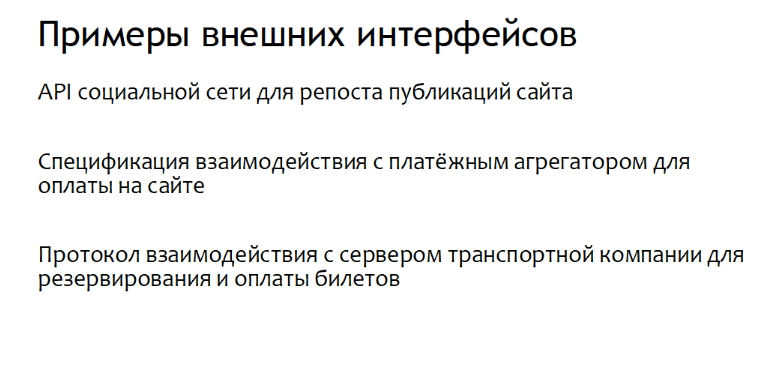
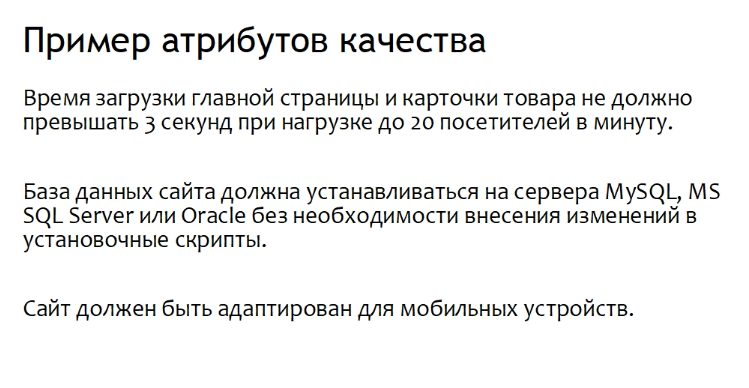
GITBOOK-9: change request with no subject merged in GitBook

Changed region(s): [[0.0307, 0.414, 0.9826, 0.828], [0.0307, 0.207, 0.9212, 0.3548], [0.0307, 0.0296, 0.7677, 0.1478]]

diff --git a/tz/zakazchik.md b/tz/zakazchik.md
@@ -1,0 +1,48 @@
+# Заказчик
+
+
+
+## Типы заказчиков
+
+На проектах я бываю по две стороны баррикад – и как исполнитель (разработчик), и как представитель заказчика. Поэтому заказчиков я для себя разделила на два типа.
+
+**Первый тип – это дотошный детальный заказчик**.
+
+\
+У нас в компании большинство заказчиков – первого типа. Например, у нас очень дотошные бухгалтера – в проекте со стороны заказчика задействовано около 35 человек, и каждый бухгалтер знает, чего он хочет. Требования обозначаются абсолютно четкие, но противоречащие друг другу.
+
+&#x20;
+
+* В общении с таким заказчиком есть плюсы – он досконально пропишет требования в ТЗ, расскажет вам, что ему конкретно нужно, все нарисует, объяснит, вам останется только это реализовать.
+* Но в общении с таким заказчиком есть и минусы: он убежден, что его желание должно быть реализовано именно так, как он себе представляет. Если для его задачи есть типовое решение, или вы знаете более оптимальный выход, его тяжело переубедить – он будет стоять на своем до конца. Проблему всегда нужно рассматривать с разных сторон, и для объективной оценки у такого заказчика не всегда может быть достаточно знаний – не может один специалист разбираться во всем и говорить, как вам поступать.
+
+**Второй тип заказчика – заказчик, который погружаться в детали не хочет.**
+
+\
+Такие заказчики мне чаще всего встречались со стороны малого и среднего бизнеса – это собственники, которые хотят видеть результат работы программы в определенном виде. В моей практике была заказчица, которая хотела видеть финансовые отчеты по своей компании, но для их настройки программу 1С даже не собиралась открывать. С такими заказчиками сложно работать, потому что они не хотят вникать в детали, хотят, чтобы им дали готовое решение.
+
+Но если нащупать лазейку, понять, как человек мыслит, как он общается с коллегами, какой он в неформальном общении, какие он отчеты использует, что ему удобнее смотреть – таблицу или диаграмму – реализовать цель будет легко.\
+&#x20;
+
+* С одной стороны, сдать такому заказчику результат проще – если он увидит готовое решение в том виде, которое его устраивает, он уже не будет проверять содержимое.
+* Но, с другой стороны, понять, что ему нужно – сложнее, потому что детали из такого заказчика вытащить невозможно.
+
+Источник: [https://infostart.ru/pm/1674776/](https://infostart.ru/pm/1674776/)
+
+
+
+
+
+## Взаимодействие с заказчиком
+
+* **Психологический момент – нужно выслушать заказчика.** По сути, вы как «жилетка» или личный психолог, должны выслушать все, что скажет заказчик, – все его проблемы, боли, все, что его беспокоит. Активно слушайте, поддерживайте, сопереживайте, дайте ему выговориться полностью. После того как весь поток речей закончится, можно приступать к конструктивной работе.
+* **Из этих речей нужно вычленить проблемы, которые нужно решить**. Чаще всего заказчик описывает ситуацию своими словами, из которых непонятен корень проблемы. Однажды мне звонила разгневанный кладовщик, долго кричала и жаловалась в трубку: «У меня не работает 1С, сделайте что-нибудь». Когда я попыталась выяснить, что именно нужно починить, женщина отвечала, что не знает, в чем проблема, но теперь она не может выдать документы водителю, а он из-за этого не может сходить в туалет. Пять минут я выслушивала не проблему, а то, что водитель не может сходить в туалет. Но это нужно было выслушать, чтобы потом остановиться и выяснить, какую проблему мы решаем: проблему водителя или проблему 1С?
+* **Важно докопаться до истины и выявить проблему, а не слушать решение заказчика.** Очень много среди заказчиков тех, кто знаком с программированием, знает 1С – они начинают раздавать свои советы и решения. Но нужно вычленить проблему. Если, как в анекдоте, клиент пришел к вам и просит отрубить ему голову, вы хотя бы на автомате поинтересуйтесь: какую задачу мы решаем, почему заказчик принял такое решение? Какие решения он еще рассматривал? Конечно, можно действовать исключительно по ТЗ и отрубить заказчику голову, но это будет некорректно, хотя финансово выгодно. Поэтому лучше докопаться до истины.
+* **Чтобы дойти до истины, самое главное – перейти на язык заказчика**. Это сложный момент, потому что мы все преподносим себя как высококлассные дорогие специалисты, используем терминологию, в том числе для того, чтобы продемонстрировать свой профессионализм заказчику. Но чаще всего заказчик не понимает этого языка, поэтому старайтесь перейти на язык заказчика. Вы перейдете на его уровень, начнете понимать его логику и увидите в решении какие-то нюансы, которые могут вызывать проблему. Например, если заказчик привык заполнять документ, перемещаясь по полям слева направо, а вы ему сделаете заполнение полей сверху вниз, приемка вашего ТЗ может провалиться из-за мелочи. Поэтому обращайте внимание на детали и делайте так, чтобы заказчику было удобно.
+* **Следующий момент – посмотреть, как работает то, что есть сейчас.** Встаньте на место заказчика: потрогайте, проверьте работу на тестовых базах, сходите на производство, потыкайте в программе, поработайте с решением. Если вы полностью поймете процесс, это облегчит вам задачу.
+* **Соберите всю доступную документацию и изучите ее** – это самое главное. В нашей компании много специфики – куча разных положений по видам учета, учетная политика, различные инструкции, анкетирование, опросы. Мы нашим подрядчикам предоставили подробную информацию о том, как работает наша бухгалтерия, заполнили кучу опросных листов, анкет, предоставили детальную документацию. Но, открыв ТЗ, мы обнаружили, что исполнители со стороны подрядчика наши документы даже не прочитали, потому что в ТЗ перечислялись типовые возможности, которые не покрывают наши потребности. Нашим бухгалтерам это было очень обидно, они были недовольны и злы на подрядчика: на сбор информации потрачено много времени, но ее никто не изучил.
+* **Важно исследовать предметную область**, потому что у каждой организации есть своя специфика, свои нюансы в работе. Где-то есть специфика с точки зрения закона, где-то работа исторически сложилась некорректно, но эти правила не будут менять, потому что это тяжело и бессмысленно, поэтому нужно изучить все эти нюансы и постараться их полностью использовать. Даже если мы работаем с хорошим подрядчиком, он все равно предлагает типовые решения, основанные на его опыте, и не хочет разбираться, как у нас идет работа. А очень хочется, чтобы человек это понимал. Невнимание к деталям со стороны исполнителя мешает наладить хорошие отношения с заказчиком.
+
+Источник: [https://infostart.ru/pm/1674776/](https://infostart.ru/pm/1674776/)
+
+* Границы ТЗ (scope)

diff --git a/SUMMARY.md b/SUMMARY.md
@@ -1,25 +1,27 @@
 # Table of contents
 
 * [Введение](README.md)
-* [Сбор требований](sbor-trebovanii/README.md)
-  * [Функциональные требования](sbor-trebovanii/funkcionalnye-trebovaniya/README.md)
-    * [Бизнес требования](sbor-trebovanii/funkcionalnye-trebovaniya/biznes-trebovaniya.md)
-    * [Пользовательские требования](sbor-trebovanii/funkcionalnye-trebovaniya/polzovatelskie-trebovaniya/README.md)
-      * [Use case](sbor-trebovanii/funkcionalnye-trebovaniya/polzovatelskie-trebovaniya/use-case.md)
-    * [Системные требования](sbor-trebovanii/funkcionalnye-trebovaniya/sistemnye-trebovaniya.md)
-  * [Нефункциональные требования](sbor-trebovanii/nefunkcionalnye-trebovaniya/README.md)
-    * [Бизнес-правила](sbor-trebovanii/nefunkcionalnye-trebovaniya/biznes-pravila.md)
-    * [Атрибуты качества](sbor-trebovanii/nefunkcionalnye-trebovaniya/atributy-kachestva.md)
-    * [Ограничения](sbor-trebovanii/nefunkcionalnye-trebovaniya/ogranicheniya.md)
-    * [Внешний интерфейс](sbor-trebovanii/nefunkcionalnye-trebovaniya/vneshnii-interfeis.md)
-    * [📎 FURPS](sbor-trebovanii/nefunkcionalnye-trebovaniya/furps.md)
-  * [User story](sbor-trebovanii/user-story.md)
-  * [📍 Качества требований](sbor-trebovanii/kachestva-trebovanii.md)
-* [ТЗ](tz.md)
+* [ТЗ](tz/README.md)
+  * [Заказчик](tz/zakazchik.md)
+* [Требования](trebovaniya/README.md)
+  * [Функциональные требования](trebovaniya/funkcionalnye-trebovaniya/README.md)
+    * [Бизнес требования](trebovaniya/funkcionalnye-trebovaniya/biznes-trebovaniya.md)
+    * [Пользовательские требования](trebovaniya/funkcionalnye-trebovaniya/polzovatelskie-trebovaniya/README.md)
+      * [Use case](trebovaniya/funkcionalnye-trebovaniya/polzovatelskie-trebovaniya/use-case.md)
+    * [Системные требования](trebovaniya/funkcionalnye-trebovaniya/sistemnye-trebovaniya.md)
+  * [Нефункциональные требования](trebovaniya/nefunkcionalnye-trebovaniya/README.md)
+    * [Бизнес-правила](trebovaniya/nefunkcionalnye-trebovaniya/biznes-pravila.md)
+    * [Атрибуты качества](trebovaniya/nefunkcionalnye-trebovaniya/atributy-kachestva.md)
+    * [Ограничения](trebovaniya/nefunkcionalnye-trebovaniya/ogranicheniya.md)
+    * [Внешний интерфейс](trebovaniya/nefunkcionalnye-trebovaniya/vneshnii-interfeis.md)
+    * [📎 FURPS](trebovaniya/nefunkcionalnye-trebovaniya/furps.md)
+  * [User story](trebovaniya/user-story.md)
+  * [📍 Качества требований](trebovaniya/kachestva-trebovanii.md)
 * [Интеграции](integracii/README.md)
   * [Синхронное взаимодействие](integracii/sinkhronnoe-vzaimodeistvie.md)
   * [Асинхронное взаимодействие](integracii/asinkhronnoe-vzaimodeistvie.md)
-  * [HTTP](integracii/http.md)
+  * [HTTP](integracii/http/README.md)
+    * [CRUD](integracii/http/crud.md)
 * [Базы данных](bazy-dannykh/README.md)
   * [Реляционные](bazy-dannykh/relyacionnye.md)
   * [Нереляционные](bazy-dannykh/nerelyacionnye.md)
@@ -27,31 +29,29 @@
 * [Диаграммы](diagrammy/README.md)
   * [BPMN](diagrammy/bpmn.md)
   * [UML](diagrammy/uml.md)
-* [Основы сетей](osnovy-setei/README.md)
-  * [OSI (old)](osnovy-setei/osi-old.md)
-  * [OSI](osnovy-setei/osi.md)
-  * [💡 HTTP](osnovy-setei/http.md)
-  * [TLS](osnovy-setei/tls.md)
-  * [DNS](osnovy-setei/dns.md)
 * [DevOps](devops/README.md)
+  * [Основы сетей](devops/osnovy-setei/README.md)
+    * [OSI](devops/osnovy-setei/osi.md)
+    * [TCP/IP](devops/osnovy-setei/tcp-ip.md)
+    * [📍 HTTP](devops/osnovy-setei/http.md)
+    * [DNS](devops/osnovy-setei/dns.md)
   * [Kubernetes](devops/kubernetes.md)
   * [Openshift](devops/openshift.md)
-* [Мониторинг (логи и др)](monitoring-logi-i-dr/README.md)
-  * [Kibana](monitoring-logi-i-dr/kibana.md)
-  * [Grafana](monitoring-logi-i-dr/grafana.md)
+  * [📎 cmd](devops/cmd.md)
+  * [Git](devops/git.md)
+* [Мониторинг](monitoring/README.md)
+  * [Grafana](monitoring/grafana.md)
+  * [Kibana](monitoring/kibana.md)
 * [Тестирование](testirovanie/README.md)
-  * [Приемочное](testirovanie/priemochnoe.md)
   * [Нагрузочное](testirovanie/nagruzochnoe.md)
   * [ИФТ](testirovanie/ift.md)
+  * [📍 Приемочное](testirovanie/priemochnoe.md)
 * [Методологии разработки](metodologii-razrabotki/README.md)
-  * [Kanban](metodologii-razrabotki/kanban.md)
-  * [Scram](metodologii-razrabotki/scram.md)
   * [Waterfall](metodologii-razrabotki/waterfall.md)
+  * [Scram](metodologii-razrabotki/scram.md)
+  * [Kanban](metodologii-razrabotki/kanban.md)
 * [Макеты](makety/README.md)
   * [Figma](makety/figma.md)
   * [Axure](makety/axure.md)
-
-## Overhead
-
-* [Git](overhead/git.md)
-* [cmd](overhead/cmd.md)
+* [Другое](drugoe/README.md)
+  * [📎 BA vs SA](drugoe/ba-vs-sa.md)

diff --git a/monitoring/grafana.md b/monitoring/grafana.md
@@ -1,0 +1,21 @@
+# Grafana
+
+
+
+## Что такое?
+
+[Grafana](https://grafana.com/) — это платформа с открытым исходным кодом для визуализации, мониторинга и анализа данных. Этот инструмент, в сочетании с Graylog, — часть нашей [двухсторонней системы мониторинга поведения пользователей и производительности системы](https://www.logicify.com/en/blog/logicify-double-sided-system-of-user-behavior-and-system-condition-monitoring/?edit). Grafana позволяет пользователям создавать дашборды с панелями, каждая из которых отображает определенные показатели в течение установленного периода времени. Каждый дашборд универсален, поэтому его можно настроить для конкретного проекта или с учетом любых потребностей разработки и/или бизнеса.
+
+Наша команда Logicify в основном использует Grafana в сочетании с Elasticsearch и InfluxDB, но это программное средство [поддерживает множество других источников данных](http://docs.grafana.org/features/datasources/#supported-data-sources/) (Prometheus, MySQL, Postgres и т. д.). Для каждого источника данных в Grafana предусмотрен настраиваемый редактор запросов и специальный синтаксис.
+
+## Глоссарий
+
+* **Панель** — базовый элемент визуализации выбранных показателей. Grafana поддерживает панели с графиками, единичными статусами, таблицами, [тепловыми картами кликов](http://docs.grafana.org/features/panels/heatmap/) и произвольным текстом, а также интеграцию с официальными и созданными сообществом плагинами (например, карта мира или часы) и приложениями, которые также можно визуализировать. Можно настроить стиль и формат каждой панели; все панели можно перетаскивать на новое место, перестраивать и изменять их размер.
+* **Дашборд** — набор отдельных панелей, размещенных в сетке с набором переменных (например, имя сервера, приложения и датчика). Изменяя переменные, можно переключать данные, отображаемые на дашборде (например, данные с двух отдельных серверов). Все дашборды можно настраивать, а также секционировать и фрагментировать представленные в них данные в соответствии с потребностями пользователя. В проекте Grafana участвует большое сообщество разработчиков кода и пользователей, поэтому существует большой выбор готовых дашбордов для разных типов данных и источников.
+* В дашбордах можно использовать **аннотации** для отображения определенных событий на разных панелях. Аннотации добавляются настраиваемыми запросами в Elasticsearch; на графике аннотация отображается вертикальной красной линией. При наведении курсора на аннотацию можно получить описание события и теги, например, для отслеживания ответа сервера с кодом ошибки 5xx или перезапуска системы. Благодаря этому можно легко сопоставить время, конкретное событие и его последствия в приложении и исследовать поведение системы.
+
+Источник: [https://habr.com/ru/companies/slurm/articles/431122/](https://habr.com/ru/companies/slurm/articles/431122/)
+
+Полезное: [https://vyache.art/posts/grafana/](https://vyache.art/posts/grafana/)
+
+\

diff --git a/monitoring/kibana.md b/monitoring/kibana.md
@@ -1,0 +1,20 @@
+# Kibana
+
+## ELK
+
+ELK – это аббревиатура, используемая для описания стека из трех популярных проектов: Elasticsearch, Logstash и Kibana. Стек ELK, зачастую именуемый Elasticsearch, предоставляет возможность собирать журналы всех ваших систем и приложений, анализировать их и создавать визуализации, чтобы мониторить приложения и инфраструктуры, быстрее устранять неполадки, анализировать систему безопасности и многое другое.
+
+## Kibana
+
+Kibana – это буква “К” в популярном стеке ELK. Он построен поверх популярного стека Elasticsearch для изучения, визуализации и анализа данных журналов, собранных Logstash и хранящихся в Elasticsearch. Kibana была создана в 2013 году, и с тех пор она стала фронтендом для стека управления журналами, предоставляемого Elastic.
+
+Kibana предоставляет функции поиска и визуализации данных, хранящихся и индексируемых в Elasticsearch. Хотя изначально Kibana была создана для поддержки визуализации журналов, сейчас она предоставляет возможности построения графиков для всех типов данных, хранящихся в Elasticsearch.
+
+Kibana предоставляет различные типы поиска и запросов для выполнения поиска по данным, проиндексированным в Elasticsearch. Некоторые из распространенных методов поиска, предоставляемых Kibana, включают:
+
+* KQL означает язык запросов Kibana. Он поддерживает свободный текстовый поиск и поиск по полям.
+* Поддерживается булевый поиск с помощью `and`, `or` , и `not`. Например, чтобы найти документы с ответом `200` или расширением `php`
+
+Источник: [https://procodings.ru/dev-ru/kibana-vs-grafana-kakoy-instrument-vybrat/](https://procodings.ru/dev-ru/kibana-vs-grafana-kakoy-instrument-vybrat/)
+
+Полезное:[ ](https://aws.amazon.com/ru/what-is/elk-stack/)[https://aws.amazon.com/ru/what-is/elk-stack/](https://aws.amazon.com/ru/what-is/elk-stack/)

diff --git a/tz/README.md b/tz/README.md
@@ -1,0 +1,13 @@
+# ТЗ
+
+Агрегируя набор требований к решению с кратким описанием контекста его практического использования, ТЗ является базисом для Заказчика и команды реализации (разработчиков, тестировщиков, руководителя проекта). Поэтому можно сказать, что аналитик пишет ТЗ для следующих читателей:
+
+* _**Заказчик**_ – стейкхолдеры со стороны бизнеса, проблемы которого должен решить продукт с помощью его функциональных возможностей в заданных условиях его использования;
+* _**Разработчик**_ – к этой роли можно отнести как непосредственно программиста, пишущего программный код, так и архитектора ИТ-решения, а также тим/техлида и DevOps-инженера, т.е. всех непосредственных участников процесса реализации заявленных в ТЗ требований;
+* _**Тестировщик**_ – который проверяет, что результат соответствует заявленным ожиданиям, трассируя требования в набор тестов;
+* _**Руководитель проекта**_ – отвечая за бюджет и сроки поставки продукта, project manager должен понимать объем работы, который следует из контекста и набора требований к создаваемому продукту.
+
+Источник: [https://babok-school.ru/blogs/how-to-write-srs-and-technical-task-without-standards/](https://babok-school.ru/blogs/how-to-write-srs-and-technical-task-without-standards/)
+
+<figure><img src="../.gitbook/assets/image.png" alt=""><figcaption></figcaption></figure>
+

diff --git a/README.md b/README.md
@@ -18,4 +18,14 @@
 2. [https://analytics.infozone.pro/requirements-analysis/analysis-of-requirements-wiegers-2004/](https://analytics.infozone.pro/requirements-analysis/analysis-of-requirements-wiegers-2004/)
 3. [https://dzen.ru/a/Ys\_erPQlgUMeaHvt](https://dzen.ru/a/Ys\_erPQlgUMeaHvt) (не смотрел)
 4. Коротко о главном (обо всем): [https://habr.com/ru/companies/rtlabs/articles/569922/](https://habr.com/ru/companies/rtlabs/articles/569922/)
-5.
+5. [https://pikabu.ru/series/karera\_v\_it\_sistemnyiy\_analitik\_7199](https://pikabu.ru/series/karera\_v\_it\_sistemnyiy\_analitik\_7199)
+
+
+
+## Современная структура IT компании
+
+* SA
+* BA
+* Dev
+* QA
+* etc...

diff --git a/testirovanie/priemochnoe.md b/testirovanie/priemochnoe.md
@@ -1,2 +1,6 @@
-# Приемочное
+# 📍 Приемочное
 
+Формальный процесс тестирования, который проверяет соответствие системы требованиям и проводится с целью:&#x20;
+
+* определения удовлетворяет ли система приемочным критериям
+* вынесения решения заказчиком или другим уполномоченным лицом принимается приложение или нет

diff --git a/trebovaniya/nefunkcionalnye-trebovaniya/atributy-kachestva.md b/trebovaniya/nefunkcionalnye-trebovaniya/atributy-kachestva.md
@@ -17,6 +17,6 @@
 
 Примеры:&#x20;
 
-<figure><img src="../../.gitbook/assets/image.png" alt=""><figcaption></figcaption></figure>
+<figure><img src="../../.gitbook/assets/image (1).png" alt=""><figcaption></figcaption></figure>
 
 Источник: [https://www.webursitet.ru/article/vidy-trebovanii-k-programmnomu-produktu.html](https://www.webursitet.ru/article/vidy-trebovanii-k-programmnomu-produktu.html)

diff --git a/trebovaniya/nefunkcionalnye-trebovaniya/vneshnii-interfeis.md b/trebovaniya/nefunkcionalnye-trebovaniya/vneshnii-interfeis.md
@@ -14,7 +14,7 @@
 
 Примеры:&#x20;
 
-<figure><img src="../../.gitbook/assets/image (1).png" alt=""><figcaption></figcaption></figure>
+<figure><img src="../../.gitbook/assets/image (1) (1).png" alt=""><figcaption></figcaption></figure>
 
 Вот несколько примеров внешних интерфейсов:
 

diff --git a/drugoe/ba-vs-sa.md b/drugoe/ba-vs-sa.md
@@ -1,0 +1,3 @@
+# 📎 BA vs SA
+
+[https://practicum.yandex.ru/blog/kto-takoy-sistemnyi-analitik/#obyazannosti-sistemnogo-analitika](https://practicum.yandex.ru/blog/kto-takoy-sistemnyi-analitik/#obyazannosti-sistemnogo-analitika)

diff --git a/devops/osnovy-setei/osi.md b/devops/osnovy-setei/osi.md
@@ -1,4 +1,6 @@
-# OSI (old)
+# OSI
+
+[**https://backendinterview.ru/network/osi.html**](https://backendinterview.ru/network/osi.html)
 
 **OSI** - формальная, теоретическая сетевая модель
 

diff --git a/devops/kubernetes.md b/devops/kubernetes.md
@@ -1,2 +1,3 @@
 # Kubernetes
 
+[https://backendinterview.ru/devops/virtualization/kubernetes.html](https://backendinterview.ru/devops/virtualization/kubernetes.html)
